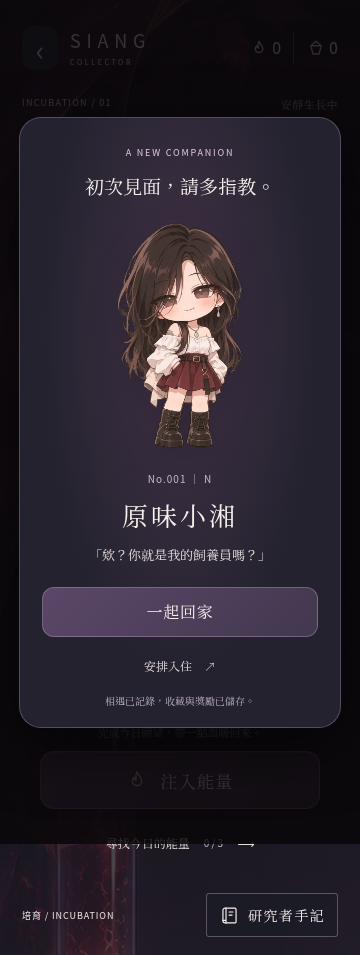
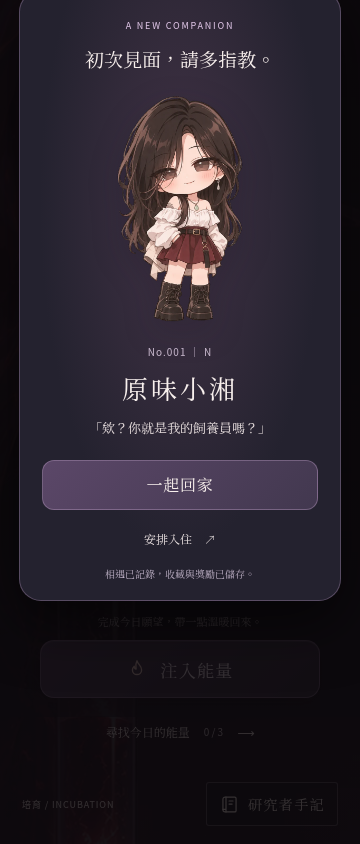
Lock modal background scrolling and capture viewport reviews

diff --git a/css/hatching.css b/css/hatching.css
@@ -29,3 +29,6 @@
 @media(max-height:700px) { .hatch-scene__egg { height:260px; } .hatch-scene[open] { gap:8px; } #reveal { padding-top:20px; } }
 @media(prefers-reduced-motion:reduce) { #reveal-img { animation:none; } .hatch-scene { animation:none; } }
 .hatch-scene:not([open]) { display:none; }
+
+/* Keep the page behind native modal backdrops stationary; scroll inside the dialog. */
+html:has(dialog[open]), body:has(dialog[open]) { overflow:hidden; overscroll-behavior:none; }

diff --git a/docs/HATCHING.md b/docs/HATCHING.md
@@ -11,3 +11,5 @@
 `tests/hatching.cjs` 驗證 360／390／430px、完整播放／跳過／Escape、重複獎勵、安排入住、刷新、612px 矮畫面、reduced-motion 與跨分頁單次結算。`tests/mobile.cjs` 回歸拍照願望、能量、存檔與孵化。截圖為隔離測試存檔，位於 `docs/review/hatching-*.png`。
 
 本次使用 Chromium 手機模擬，iOS Safari／Android Chrome 真機流暢度仍待驗收。
+
+彈窗驗收截圖採手機視窗截圖；原生 dialog 的 backdrop 只覆蓋視窗，整頁截圖會把視窗以外未遮暗的文件一併拍入，產生假斷層。彈窗開啟期間鎖定文件背景捲動，矮畫面在 dialog 內捲動。
